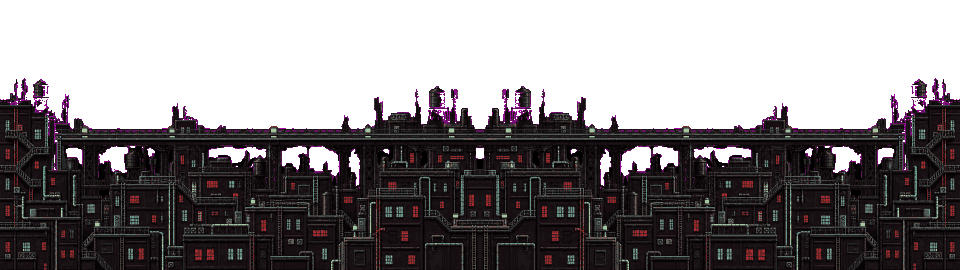
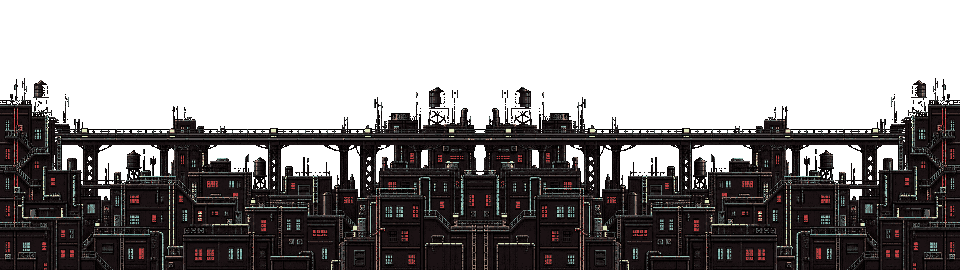
fix(city): preserve skyline alpha before nearest pixel scaling

diff --git a/assets/city/ATTRIBUTION.md b/assets/city/ATTRIBUTION.md
@@ -10,7 +10,7 @@ Far prompt: “distant cyberpunk night skyline panorama, tall tower silhouettes,
 
 Mid prompt: “Image 1 architecture pixel style reference; low rooftops/elevated highway/antennas/water tanks, red/cyan windows, flat uniform #ff00ff sky/negative space, architecture palette #100609 #281018 #a52b3a #55ced1 #e8dec8 #f4e45a, no people/text/logos/UI.”
 
-The mid generation produced black RGB sky pixels with alpha 0 instead of the requested opaque magenta sky. `scripts/pixelize-backdrop.mjs` decodes its original PNG and flood-fills only near-black pixels (all RGB channels ≤8) connected to the upper edge, replacing those with opaque magenta before filtering. It also normalizes existing alpha-0 pixels to the same key color, including open gaps under the highway: ffmpeg's colorkey replaces input alpha, so leaving their RGB black would make them opaque. Enclosed opaque black building interiors are not changed. The source PNG remains unmodified. Both layers are area-scaled to width 480, cropped to 480×270 from the bottom, quantized to at most 24 colors with no dithering, and mirrored horizontally into seamless 960×270 tiles. Mid additionally applies `colorkey=0xff00ff:0.25:0.05` for transparency. RGBA is preserved before mirroring and stacking. Output files are `web/city/assets/skyline-far.png` and `skyline-mid.png`. Reproduce with `node scripts/pixelize-backdrop.mjs` (ffmpeg required).
+The mid generation produced black RGB sky pixels with alpha 0 instead of the requested opaque magenta sky. `scripts/pixelize-backdrop.mjs` decodes its original PNG and flood-fills only near-black pixels (all RGB channels ≤8) connected to the upper edge, setting their alpha to 0. Existing transparent gaps and partial-alpha architecture edges are preserved; enclosed opaque black interiors are not keyed. Hidden RGB is cleared before scaling. Mid is downscaled using nearest-neighbour RGBA sampling, so synthetic key colors never mix into visible rooftop pixels. The original area-scale-then-colorkey pipeline produced purple fringes in the browser and was replaced rather than masking those colors after generation. Far retains area scaling. Both layers are scaled to width 480, cropped to 480×270 from the bottom, quantized to at most 24 colors with no dithering, and mirrored horizontally into seamless 960×270 tiles, preserving RGBA before mirroring and stacking. The original source PNGs remain unmodified. Output files are `web/city/assets/skyline-far.png` and `skyline-mid.png`. Reproduce with `node scripts/pixelize-backdrop.mjs` (ffmpeg required).
 
 ## Vendored Phaser
 
